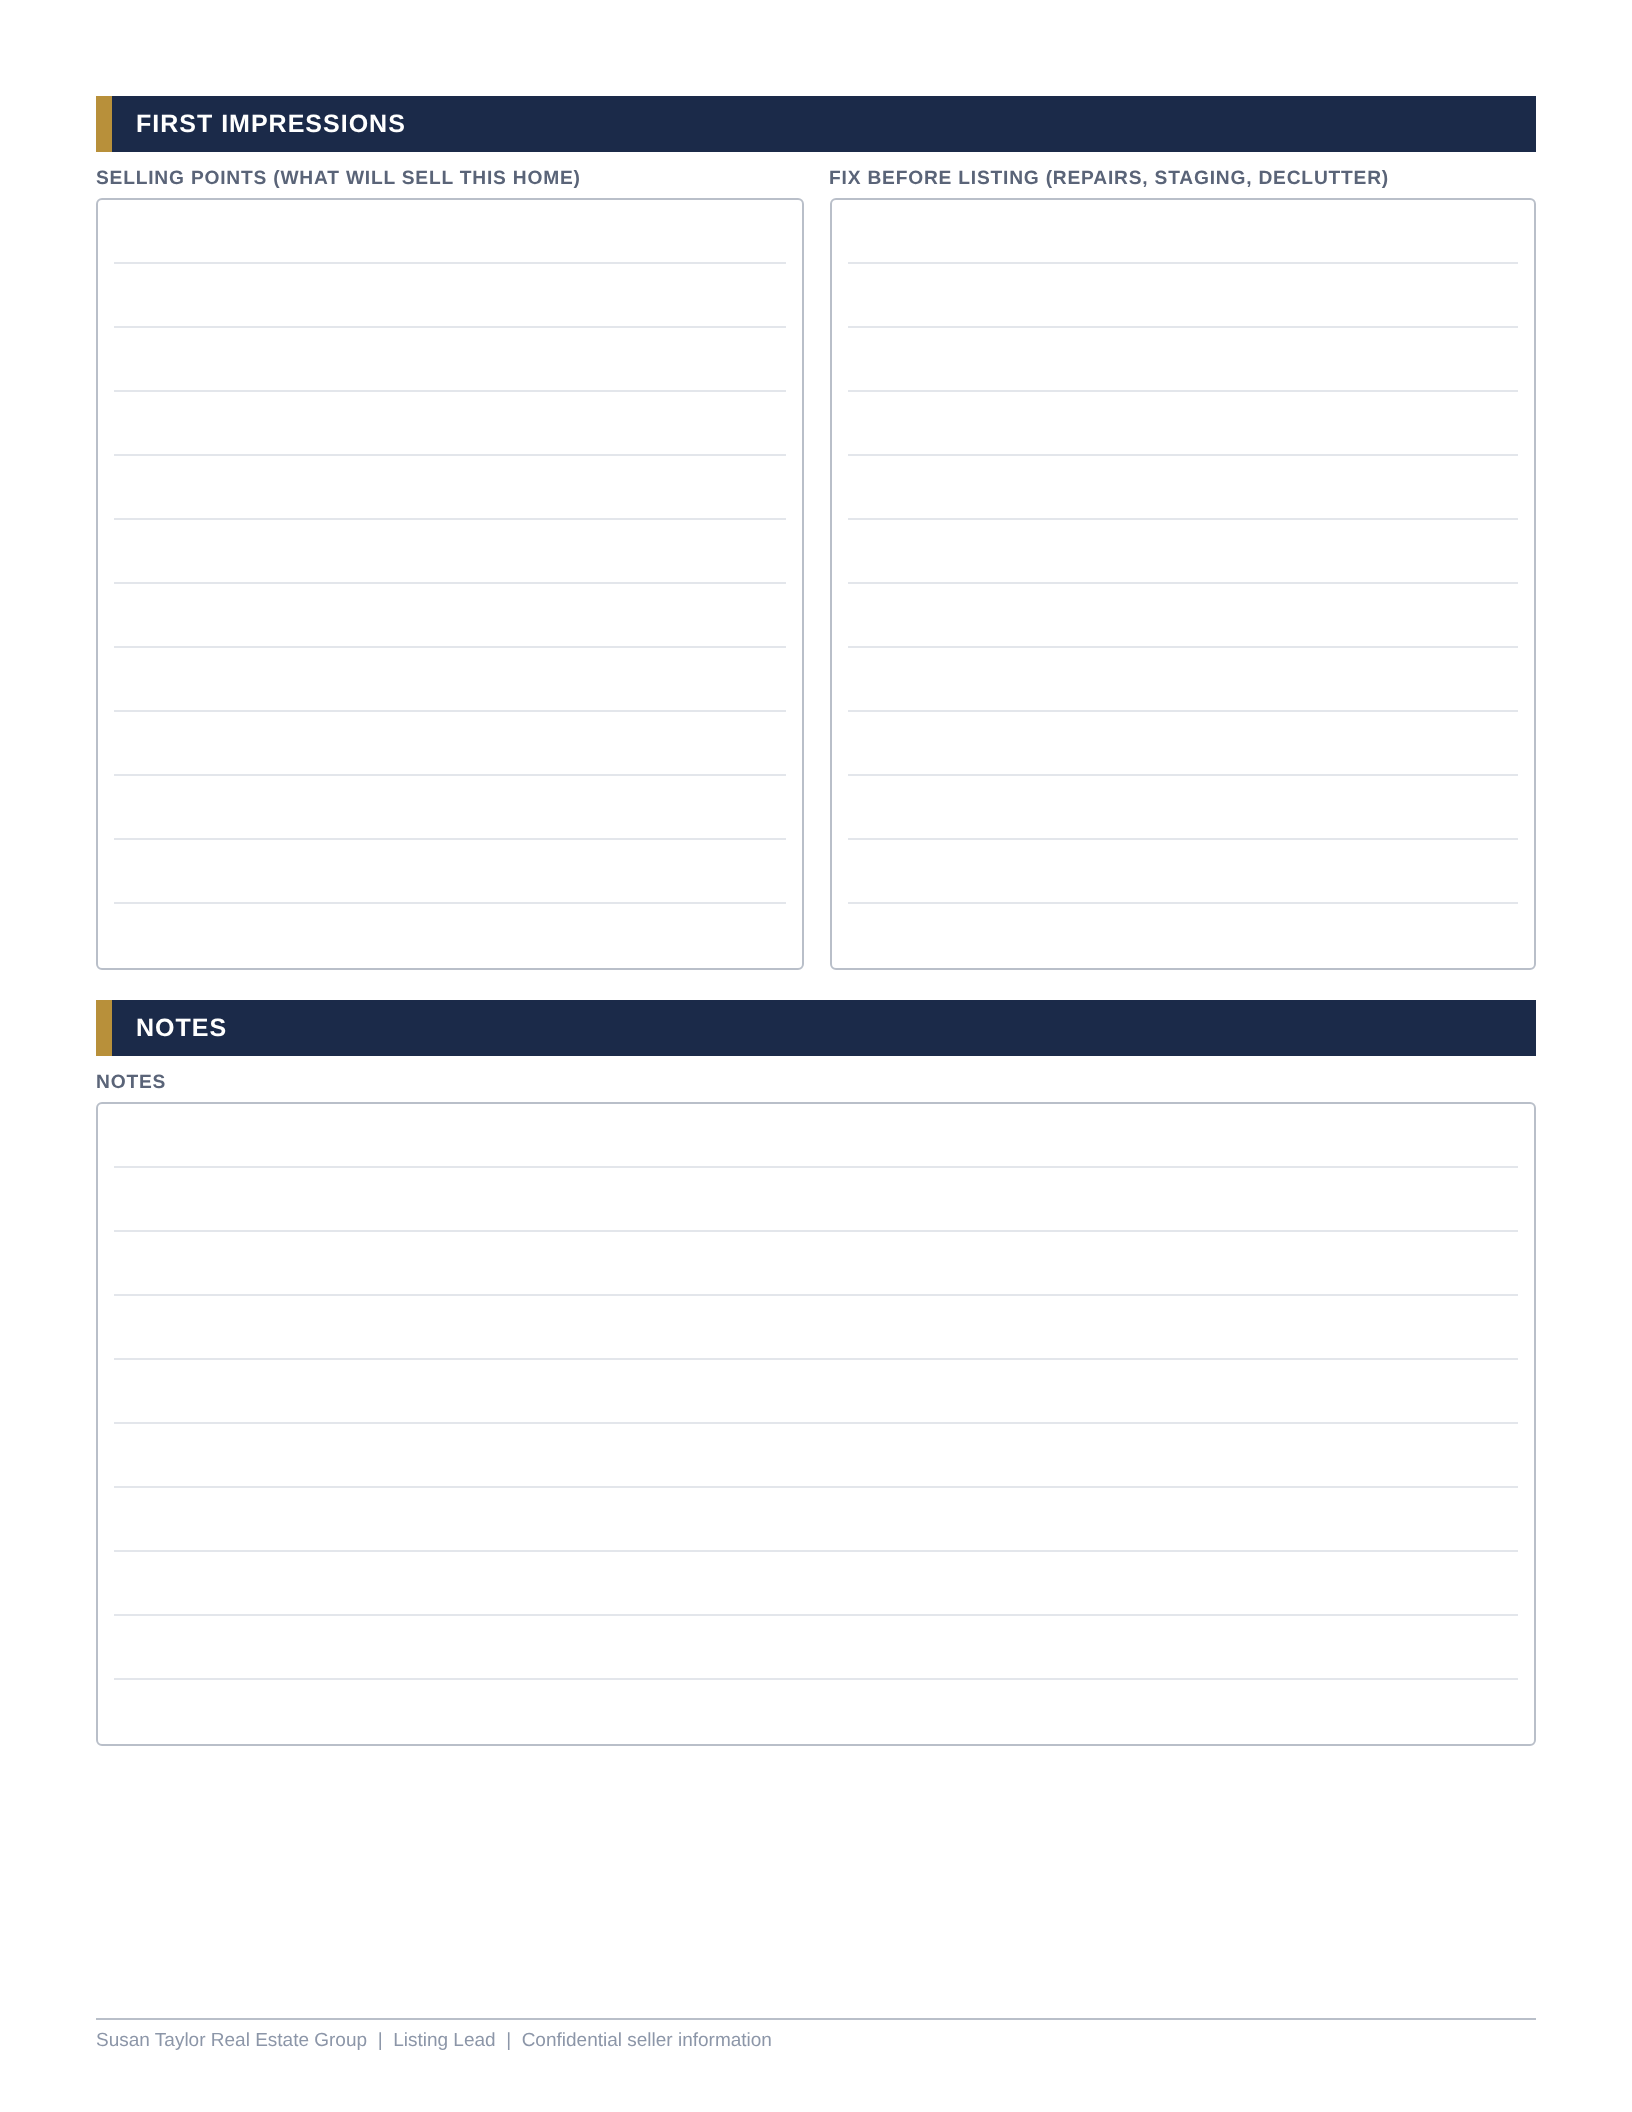
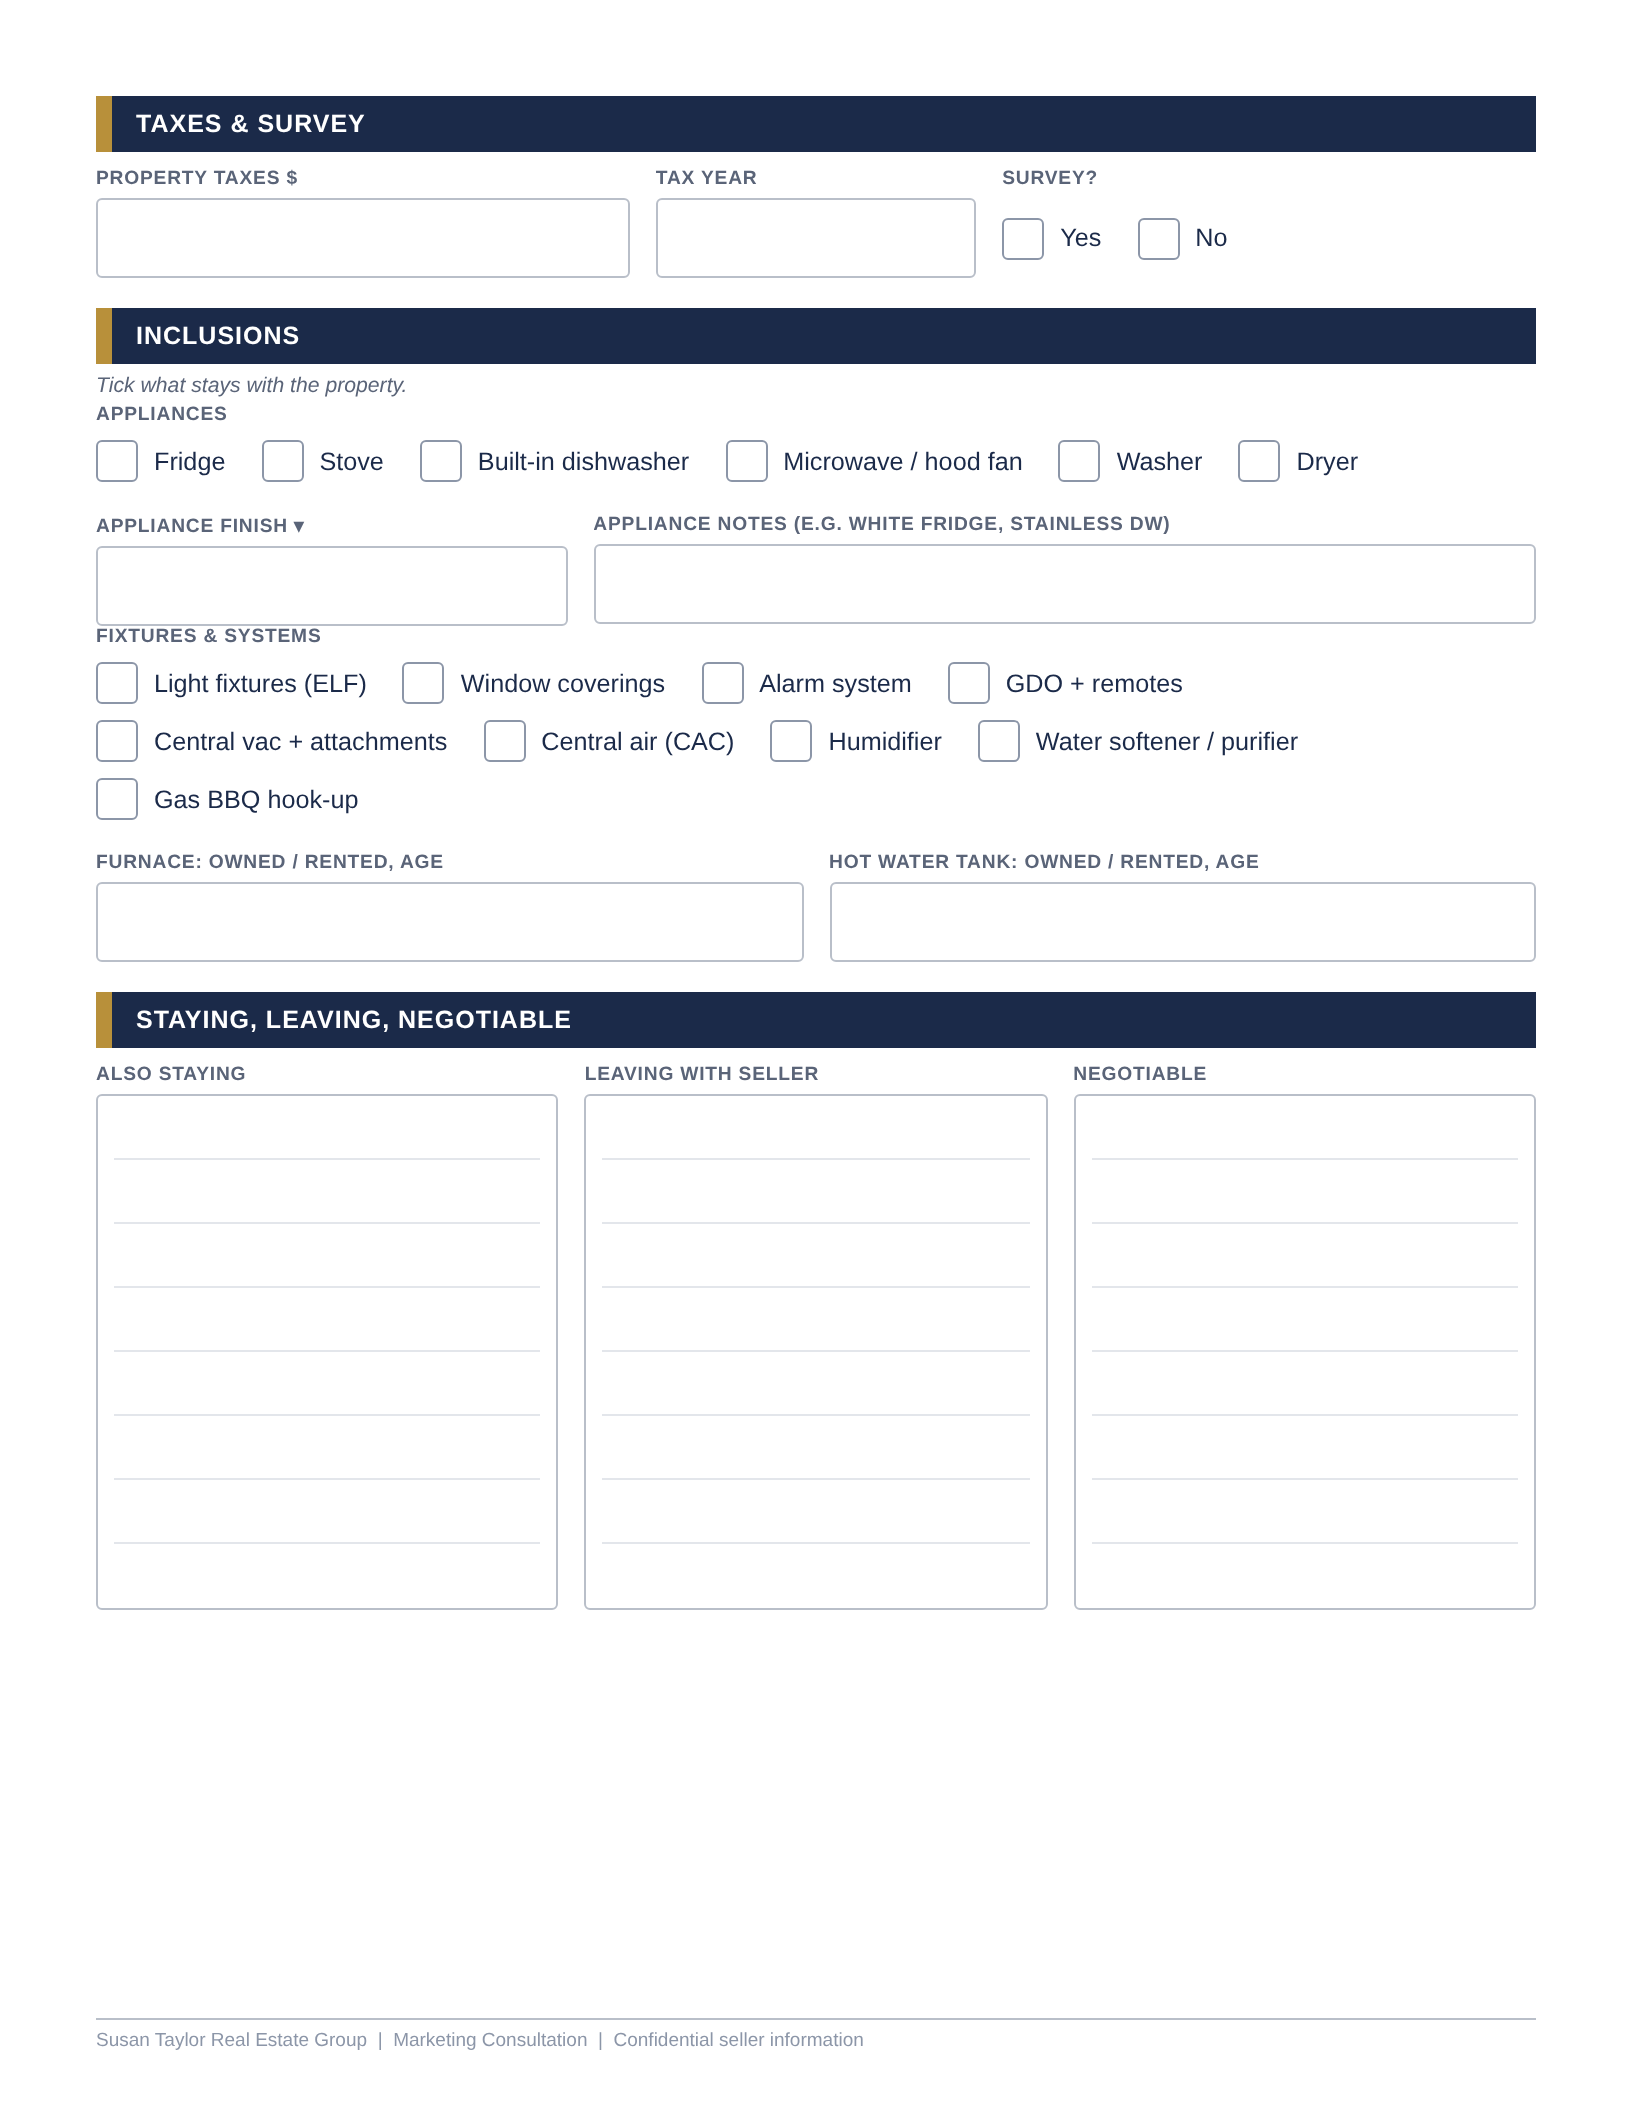
Rename to Marketing Consultation, follow Sue's order, retire Listing Details
Form follows Sue's original sheet: sellers and background, about the
property (community, fireplace, upgrades, basement detail, garage and
parking), purchase and price, room by room in her walking order with a
suggested next room, then taxes, survey, inclusions with appliance finish,
and staying / leaving / negotiable. The property address shows in the
blue banner. Listing Details can no longer be started; old ones still open.

Claude-Session: https://claude.ai/code/session_01CeRbRrmCaVeMYwMfHpdKm6

diff --git a/app.js b/app.js
@@ -1,22 +1,24 @@
-/* STG Field Notes: Listing Lead + Listing Details.
+/* STG Field Notes: Marketing Consultation (Listing Details retired Nov 2026; old ones still open).
    Apple Pencil writes, finger taps type/dictate/tick, finger drags scroll. Saved per property.
-   Listing Lead grows room by room. Works offline. Exports PDF. */
+   The consultation grows room by room. Works offline. Exports PDF. */
 (() => {
   "use strict";
 
   const SHEET_W = 816, SHEET_H = 1056;
   const INK = "#14213D", PEN_W = 2.1, ERASE_R = 11, PHOTO_MAX_SIDE = 4096, PHOTO_MAX_PIXELS = 2.4e6, WIDE = 2.1;
   const FORMS = {
-    lead:    { title: "Listing Lead",    tag: "FIRST VISIT",    layout: "lead-layout.json",    prefix: "lead-" },
+    lead:    { title: "Marketing Consultation", tag: "CONSULTATION",    layout: "lead-layout.json",    prefix: "lead-" },
     details: { title: "Listing Details", tag: "LISTING SIGNED", layout: "details-layout.json", prefix: "details-" },
   };
   // Room picker. "to" = the matching Listing Details row, so notes + photos carry over.
   const ROOM_CHOICES = [
-    ["Kitchen", "kitchen"], ["Breakfast area", "breakfast-area"], ["Living room", "living"], ["Dining room", "dining"],
-    ["Family room", "family"], ["Primary bedroom", "master"], ["Primary bath", "master-bath"], ["Bedroom 2", "bed-2"],
-    ["Bedroom 3", "bed-3"], ["Bedroom 4", "bed-4"], ["Main bath", "main-bath"], ["Powder room", null], ["Basement", "basement"],
-    ["Laundry", "laundry"], ["Office", null], ["Garage", null], ["Front exterior", null], ["Backyard", "backyard"],
+    ["Living room", "living"], ["Dining room", "dining"], ["Family room", "family"], ["Kitchen", "kitchen"],
+    ["Breakfast area", "breakfast-area"], ["Primary bedroom", "master"], ["Primary bath", "master-bath"], ["Bedroom 2", "bed-2"],
+    ["Bedroom 3", "bed-3"], ["Bedroom 4", "bed-4"], ["Main bath", "main-bath"], ["Basement", "basement"],
+    ["Laundry", "laundry"], ["Backyard", "backyard"],
+    ["Powder room", null], ["Office", null], ["Garage", null], ["Front exterior", null],
   ];
+  const WALK_ORDER = 14;          // the first 14 choices are Sue's usual walk-through
   const ROOM_ALIASES = { master: "master", "masterbedroom": "master", "primary": "master", "masterbath": "master-bath", "ensuite": "master-bath",
     "living": "living", "dining": "dining", "family": "family", "bed2": "bed-2", "bed3": "bed-3", "bed4": "bed-4", "bedroom2": "bed-2",
     "bedroom3": "bed-3", "bedroom4": "bed-4", "yard": "backyard", "backyard": "backyard", "laundryroom": "laundry", "breakfast": "breakfast-area" };
@@ -288,6 +290,16 @@
       const v = cur.text[f.id]; if (!v) continue;
       if (f.kind === "check") drawTick(ctx, f, k); else drawFieldText(ctx, f, v, k, f.kind === "room");
     }
+    const bn = cur.layout.banner, addr = cur.meta.name && cur.meta.name !== "Untitled" ? cur.meta.name : "";
+    if (bn && addr && key === "f0") {
+      let size = bn.size; ctx.textBaseline = "alphabetic"; ctx.textAlign = "left";
+      const room = bn.maxX - bn.x - 14;
+      for (;;) { ctx.font = `bold ${size * k}px ${FONT}`; if (ctx.measureText(addr).width <= room * k || size <= 11) break; size -= 0.5; }
+      let t = addr; while (ctx.measureText(t).width > room * k && t.length > 4) t = t.slice(0, -2);
+      if (t !== addr) t = t.replace(/.$/, "…");
+      ctx.fillStyle = "#B8903A"; ctx.fillRect(bn.x * k, (bn.y - size * 0.82) * k, 3 * k, size * 0.95 * k);
+      ctx.fillStyle = "#FFFFFF"; ctx.fillText(t, (bn.x + 12) * k, bn.y * k);
+    }
     const pn = cur.layout.pageNumber, idx = cur.pages.findIndex(p => p.key === key);
     if (pn && idx >= 0) {
       ctx.font = `${9.5 * k}px ${FONT}`; ctx.fillStyle = "#8C96A8"; ctx.textAlign = "right"; ctx.textBaseline = "alphabetic";
@@ -355,6 +367,13 @@
   function openRoomPicker(n) {
     const f = roomFields(n)[0];
     const body = openModal(`Room ${n}: what room is this?`);
+    if (!roomName(n)) {
+      const used = new Set(range(cur.rooms).map(m => roomName(m)));
+      const last = range(n - 1).reverse().map(m => ROOM_CHOICES.findIndex(c => c[0] === roomName(m))).find(i => i >= 0 && i < WALK_ORDER);
+      const next = ROOM_CHOICES.slice(0, WALK_ORDER).find((c, i) => !used.has(c[0]) && (last == null || i > last))
+                || ROOM_CHOICES.slice(0, WALK_ORDER).find(c => !used.has(c[0]));
+      if (next) { const nb = el("button", "big gold", `Next: ${esc(next[0])}`); nb.onclick = () => { closeModal(); setRoomName(n, next[0]); }; body.append(nb); }
+    }
     const grid = el("div", "roomgrid"); body.append(grid);
     for (const [label] of ROOM_CHOICES) {
       const b = el("button", "rchoice" + (roomName(n) === label ? " sel" : ""), esc(label));
@@ -528,7 +547,7 @@
     btn("Choose from Photos", "light", () => pickLibrary(id));
     body.append(el("p", "tip", "Pano: take it in the Camera app first, then choose it here. You can pick several at once."));
     btn("Paste from iPhone", "light", () => pasteInto(id));
-    if (cur.meta.leadId) btn("Use a Listing Lead photo", "light", () => pickFromLead(id));
+    if (cur.meta.leadId) btn("Use a consultation photo", "light", () => pickFromLead(id));
     if (n) btn(`View or remove photos (${n})`, "light", () => openGallery(id));
   }
 
@@ -588,8 +607,8 @@
   async function pickFromLead(id) {
     const lead = docs.find(d => d.id === cur.meta.leadId);
     const photos = lead ? await docPhotos(lead.id) : [];
-    if (!photos.length) { closeModal(); toast(lead ? "That Listing Lead has no photos." : "The linked Listing Lead was deleted."); return; }
-    const body = openModal(`From Listing Lead: ${lead.name}`);
+    if (!photos.length) { closeModal(); toast(lead ? "That consultation has no photos." : "The linked consultation was deleted."); return; }
+    const body = openModal(`From consultation: ${lead.name}`);
     const grid = el("div", "pick"); body.append(grid);
     const urls = [];
     photos.forEach(ph => {
@@ -714,15 +733,14 @@
   function renderHome() {
     const list = $("#list"); list.innerHTML = "";
     const sorted = docs.slice().sort((a, b) => b.updated - a.updated);
-    if (!sorted.length) { list.innerHTML = `<div class="empty-list">No saved forms yet. Start a Listing Lead above.</div>`; return; }
+    if (!sorted.length) { list.innerHTML = `<div class="empty-list">No saved forms yet. Start a Marketing Consultation above.</div>`; return; }
     for (const d of sorted) {
       const f = FORMS[d.type] || FORMS.lead;
       const row = el("div", "item");
-      const linked = d.leadId && docs.find(x => x.id === d.leadId);
-      row.innerHTML = `<button class="open"><span class="tag ${d.type}">${f.tag}</span><b>${esc(d.name || "Untitled")}</b>
-        <small>${f.title} · updated ${fmtDate(d.updated)}${linked ? " · linked to Listing Lead" : ""}</small></button>`;
+            row.innerHTML = `<button class="open"><span class="tag ${d.type}">${f.tag}</span><b>${esc(d.name || "Untitled")}</b>
+        <small>${f.title}${d.type === "details" ? " (retired form)" : ""} · updated ${fmtDate(d.updated)}</small></button>`;
       row.querySelector(".open").onclick = () => openDoc(d);
-      if (d.type === "lead") { const b = el("button", "act go", "Start Details"); b.onclick = () => startDetailsFromLead(d); row.append(b); }
+
       const del = el("button", "act", "Delete"); del.onclick = () => confirmDelete(d); row.append(del);
       list.append(row);
     }
@@ -816,7 +834,7 @@
     go.onclick = () => { const v = $("#pname").value.trim(); closeModal(); onOk(v); };
     setTimeout(() => { try { $("#pname").focus(); } catch (e) {} }, 50);
   }
-  function newLead() { nameDialog("New Listing Lead", "", "Start", name => createDoc("lead", name)); }
+  function newLead() { nameDialog("New Marketing Consultation", "", "Start", name => createDoc("lead", name)); }
   function newDetails() {
     let chosen = null;
     const leads = docs.filter(d => d.type === "lead").sort((a, b) => b.updated - a.updated);
@@ -853,7 +871,7 @@
     nameDialog("Rename", cur.meta.name, "Save", v => {
       if (!v) return;
       const old = cur.meta.name, addr = cur.text["property-address"];
-      cur.meta.name = v; touch(); setTitle();
+      cur.meta.name = v; touch(); setTitle(); redrawText("f0");
       if (!addr || addr === old) {                       // keep the address box in step with the name
         const f = allFields().find(x => x.id === "property-address");
         if (f) setText(f, v, false);
@@ -881,7 +899,7 @@
     $("#bBack").onclick = closeDoc;
     $("#docTitle").onclick = rename;
     $("#newLead").onclick = newLead;
-    $("#newDetails").onclick = newDetails;
+    if ($("#newDetails")) $("#newDetails").onclick = newDetails;
     document.querySelectorAll("[data-close]").forEach(b => b.onclick = () => { closeModal(); $("#viewer").hidden = true; });
     $("#sheet").addEventListener("click", e => { if (e.target.id === "sheet") closeModal(); });
     const onPicked = async e => {

diff --git a/sw.js b/sw.js
@@ -1,6 +1,6 @@
 // Offline cache so the app opens at a listing with no signal. Bump VERSION on every deploy.
-const VERSION = "stg-field-notes-v8";
-const ASSETS = ["./", "app.css","app.js","details-layout.json","details-page-1.png","details-page-2.png","details-page-3.png","details-page-4.png","details-page-5.png","details-page-6.png","icon-180.png","icon-192.png","icon-512.png","index.html","jspdf.umd.min.js","lead-layout.json","lead-page-1.png","lead-page-2.png","lead-room-card.png","lead-rooms-page.png","manifest.webmanifest"];
+const VERSION = "stg-field-notes-v9";
+const ASSETS = ["./", "app.css","app.js","details-layout.json","details-page-1.png","details-page-2.png","details-page-3.png","details-page-4.png","details-page-5.png","details-page-6.png","icon-180.png","icon-192.png","icon-512.png","index.html","jspdf.umd.min.js","lead-layout.json","lead-page-1.png","lead-page-2.png","lead-page-3.png","lead-page-4.png","lead-room-card.png","lead-rooms-page.png","manifest.webmanifest"];
 self.addEventListener("install", e => { e.waitUntil(caches.open(VERSION).then(c => c.addAll(ASSETS)).then(() => self.skipWaiting())); });
 self.addEventListener("activate", e => {
   e.waitUntil(caches.keys().then(ks => Promise.all(ks.filter(k => k !== VERSION).map(k => caches.delete(k)))).then(() => self.clients.claim()));

diff --git a/index.html b/index.html
@@ -36,11 +36,9 @@
 </header>
 
 <main id="home" class="home-only">
-  <div class="newrow">
+  <div class="newrow one">
     <button id="newLead" class="newcard">
-      <span class="tag lead">FIRST VISIT</span><b>New Listing Lead</b><small>Quick notes and photos for the presentation</small></button>
-    <button id="newDetails" class="newcard">
-      <span class="tag details">LISTING SIGNED</span><b>New Listing Details</b><small>Full property details, systems, rooms</small></button>
+      <span class="tag lead">FIRST VISIT</span><b>New Marketing Consultation</b><small>Sellers, the property, room by room, inclusions and photos</small></button>
   </div>
   <h2>Saved forms</h2>
   <div id="list"></div>

diff --git a/app.css b/app.css
@@ -144,3 +144,6 @@ textarea.dictate { width: 100%; font: 19px/1.4 -apple-system, "Helvetica Neue", 
 .slot .tile img { width: 100%; height: 100%; object-fit: cover; display: block; }
 .slot .tile .more { position: absolute; inset: 0; background: rgba(27,42,73,.6); color: #fff; font-weight: 800;
   font-size: clamp(14px, 2.2vw, 24px); display: flex; align-items: center; justify-content: center; }
+
+.newrow.one { grid-template-columns: 1fr; }
+.newrow.one .newcard { padding: 22px 22px 24px; }
